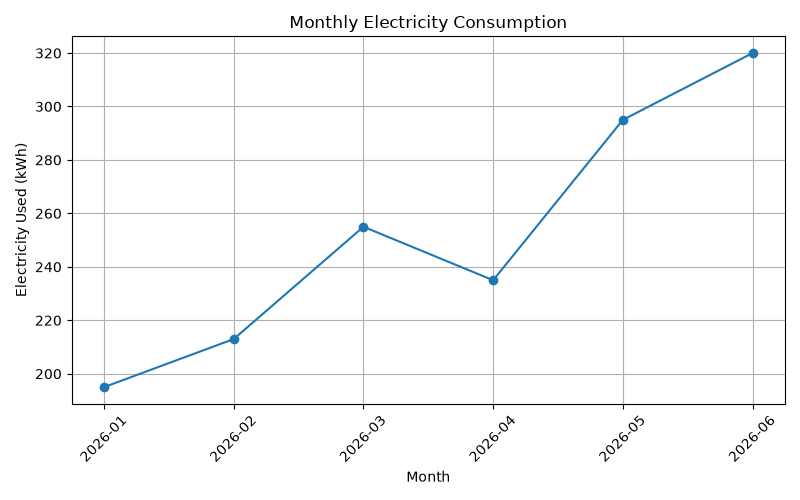
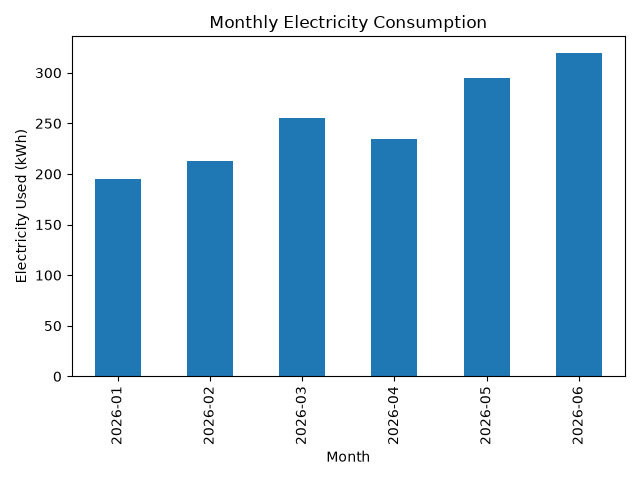
Update electricity consumption analyzer

diff --git a/main.py b/main.py
@@ -1,92 +1,51 @@
 import pandas as pd
 import numpy as np
-# Load the electricity dataset
+import matplotlib.pyplot as plt
 data = pd.read_csv("data/electricity_data.csv")
-# Calculate the estimated cost for each room
-data["Estimated_Cost"] = (
-    data["Units_kWh"] * data["Rate_per_kWh"]
-)
-# Calculate total electricity usage and cost
+data["Estimated_Cost"] = data["Units_kWh"] * data["Rate_per_kWh"]
 total_units = np.sum(data["Units_kWh"])
 total_cost = np.sum(data["Estimated_Cost"])
-# Display the results
-print("ELECTRICITY CONSUMPTION ANALYZER")
-print(f"Total electricity used: {total_units} kWh")
-print(f"Total estimated cost: Rs. {total_cost}")
-print("\nAverage monthly usage by room:")
-room_average = data.groupby("Room")["Units_kWh"].mean()
-print(room_average)
-# Find the month with the highest electricity usage
+print("\nELECTRICITY CONSUMPTION ANALYZER")
+print("Total electricity used:", round(total_units, 2), "kWh")
+print("Total estimated cost: Rs.", round(total_cost, 2))
+print("\nAverage Usage by Room:")
+print(data.groupby("Room")["Units_kWh"].mean().round(2))
 monthly_usage = data.groupby("Month")["Units_kWh"].sum()
 highest_month = monthly_usage.idxmax()
-highest_usage = monthly_usage.max()
-print("\nHighest Electricity Usage")
-print(f"Month: {highest_month}")
-print(f"Electricity used: {highest_usage} kWh")
-# Find the room with the highest total electricity usage
+print("\nHighest Usage Month:", highest_month)
+print("Usage:", round(monthly_usage.max(), 2), "kWh")
 room_usage = data.groupby("Room")["Units_kWh"].sum()
 highest_room = room_usage.idxmax()
-highest_room_usage = room_usage.max()
-print("\nHighest Electricity Usage by Room")
-print(f"Room: {highest_room}")
-print(f"Total usage: {highest_room_usage} kWh")
-# Calculate each room's percentage of total usage
-room_percentage = (room_usage / total_units) * 100
-print("\nElectricity Usage by Room (%)")
-for room, percentage in room_percentage.items():
-    print(f"{room}: {percentage:.2f}%")
-    # Flag unusually high electricity usage
-usage_threshold = 120
-high_usage = data[data["Units_kWh"] > usage_threshold]
-print("\nUnusually High Electricity Usage")
+print("\nHighest Usage Room:", highest_room)
+print("Usage:", round(room_usage.max(), 2), "kWh")
+print("\nRoom-wise Usage Percentage:")
+for room, units in room_usage.items():
+    percentage = (units / total_units) * 100 if total_units else 0
+    print(room, ":", round(percentage, 2), "%")
+print("\nUnusually High Usage (over 120 kWh):")
+high_usage = data[data["Units_kWh"] > 120]
 if high_usage.empty:
     print("No unusually high usage found.")
 else:
     print(high_usage[["Month", "Room", "Units_kWh"]].to_string(index=False))
-    # Estimate savings from reducing electricity usage by 10%
-reduction_percentage = 10
-possible_savings_units = total_units * reduction_percentage / 100
-possible_savings_cost = total_cost * reduction_percentage / 100
-print("\nEstimated Savings Plan")
-print(f"Usage reduction target: {reduction_percentage}%")
-print(f"Possible electricity savings: {possible_savings_units:.1f} kWh")
-print(f"Possible cost savings: Rs. {possible_savings_cost:.2f}")
-# Give simple electricity-saving suggestions
-print("\nElectricity Conservation Suggestions")
-if highest_room == "Living Room":
-    print("- Switch off lights and fans when not needed.")
-    print("- Avoid leaving televisions and other devices on standby.")
-if highest_usage > 250:
-    print("- Review electricity usage during the highest-consumption month.")
+savings_units = total_units * 0.10
+savings_cost = total_cost * 0.10
+print("\nEstimated Savings from a 10% Reduction:")
+print("Electricity saved:", round(savings_units, 2), "kWh")
+print("Estimated cost saved: Rs.", round(savings_cost, 2))
+print("\nElectricity Saving Suggestions:")
+print("- Switch off lights and fans when not in use.")
 print("- Use energy-efficient LED bulbs.")
-print("- Run appliances only when needed.")
-print("- Compare monthly usage to track improvements.")
-
-# Calculate month-to-month change in electricity usage
-monthly_change = monthly_usage.sort_index().pct_change() * 100
-print("\nMonthly Electricity Usage Change")
-for month, change in monthly_change.items():
-    if pd.isna(change):
-        print(f"{month}: No previous month for comparison")
-    else:
-        print(f"{month}: {change:+.2f}%")
-
-import pandas as pd
-import numpy as np
-import matplotlib.pyplot as plt
-# Create a chart of monthly electricity usage
-monthly_usage = monthly_usage.sort_index()
-plt.figure(figsize=(8, 5))
-plt.plot(
-    monthly_usage.index,
-    monthly_usage.values,
-    marker="o"
+print("- Avoid leaving appliances on unnecessarily.")
+print("- Monitor rooms with high electricity consumption.")
+print("\nMonthly Usage Changes (%):")
+print((monthly_usage.pct_change() * 100).round(2))
+monthly_usage.plot(
+    kind="bar",
+    title="Monthly Electricity Consumption",
+    ylabel="Electricity Used (kWh)",
+    xlabel="Month"
 )
-plt.title("Monthly Electricity Consumption")
-plt.xlabel("Month")
-plt.ylabel("Electricity Used (kWh)")
-plt.xticks(rotation=45)
-plt.grid(True)
 plt.tight_layout()
 plt.savefig("monthly_consumption.png")
 plt.show()
